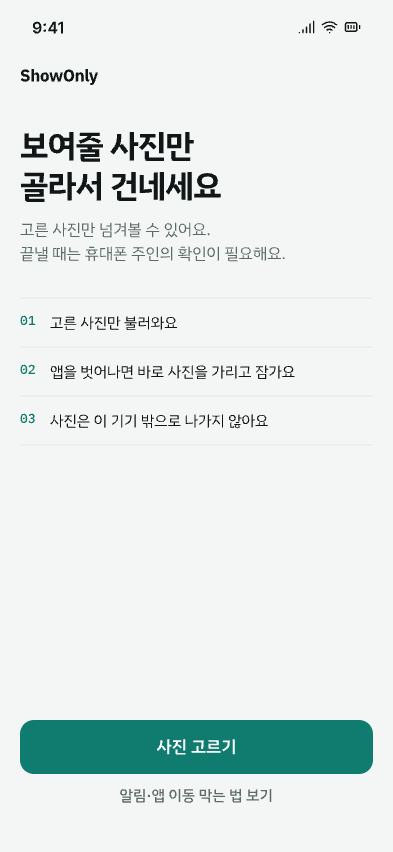
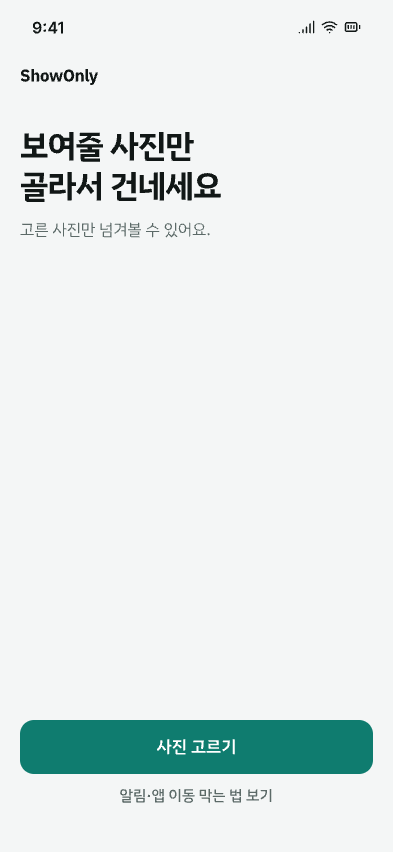
Remove fact list from empty home

diff --git a/ShowOnly/Features/Home/HomeView.swift b/ShowOnly/Features/Home/HomeView.swift
@@ -160,11 +160,6 @@ private struct HomeContent: View {
                     message: "앱이 다시 시작되면서 고른 사진을 비웠어요. 다시 골라주세요."
                 )
             }
-            VStack(spacing: 0) {
-                FactRow(index: 1, text: "고른 사진만 불러와요", showsTopSeparator: true)
-                FactRow(index: 2, text: "앱을 벗어나면 바로 사진을 가리고 잠가요")
-                FactRow(index: 3, text: "사진은 이 기기 밖으로 나가지 않아요")
-            }
         }
     }
 
